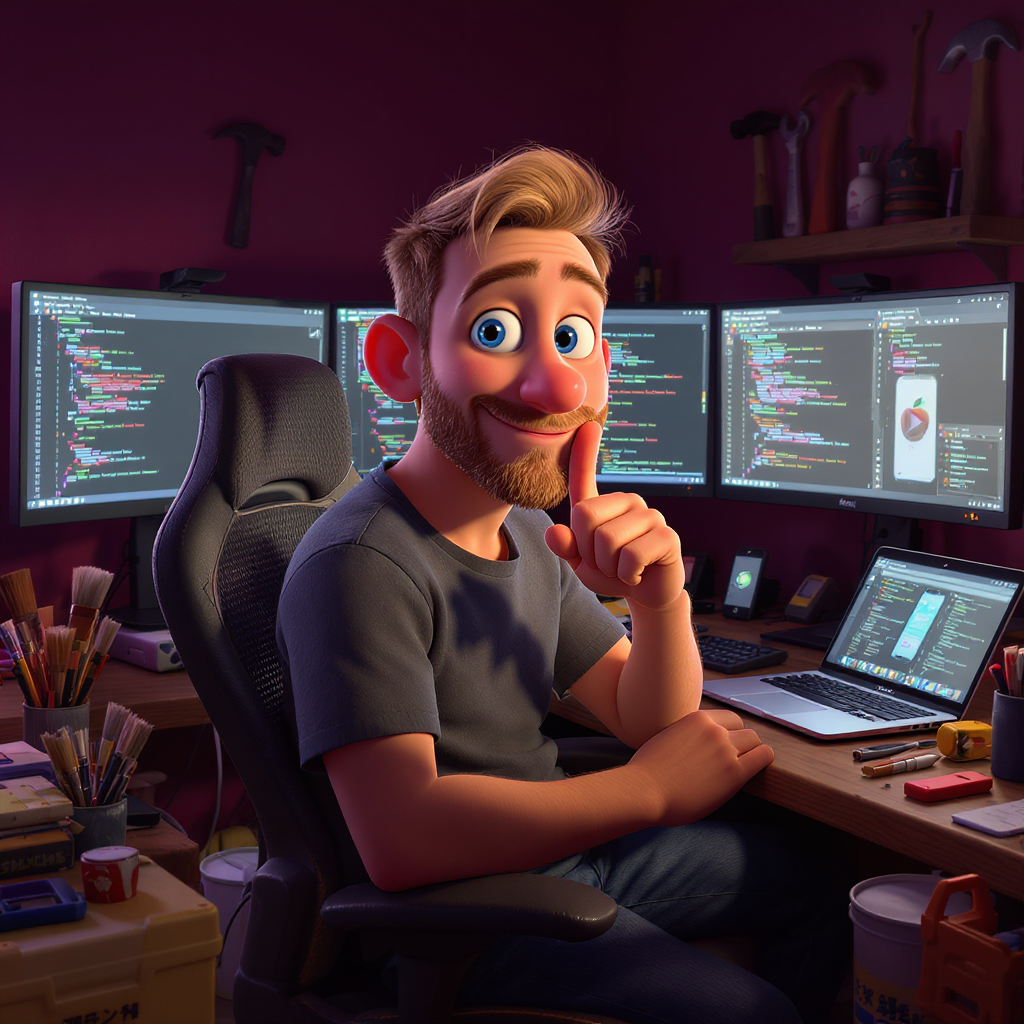
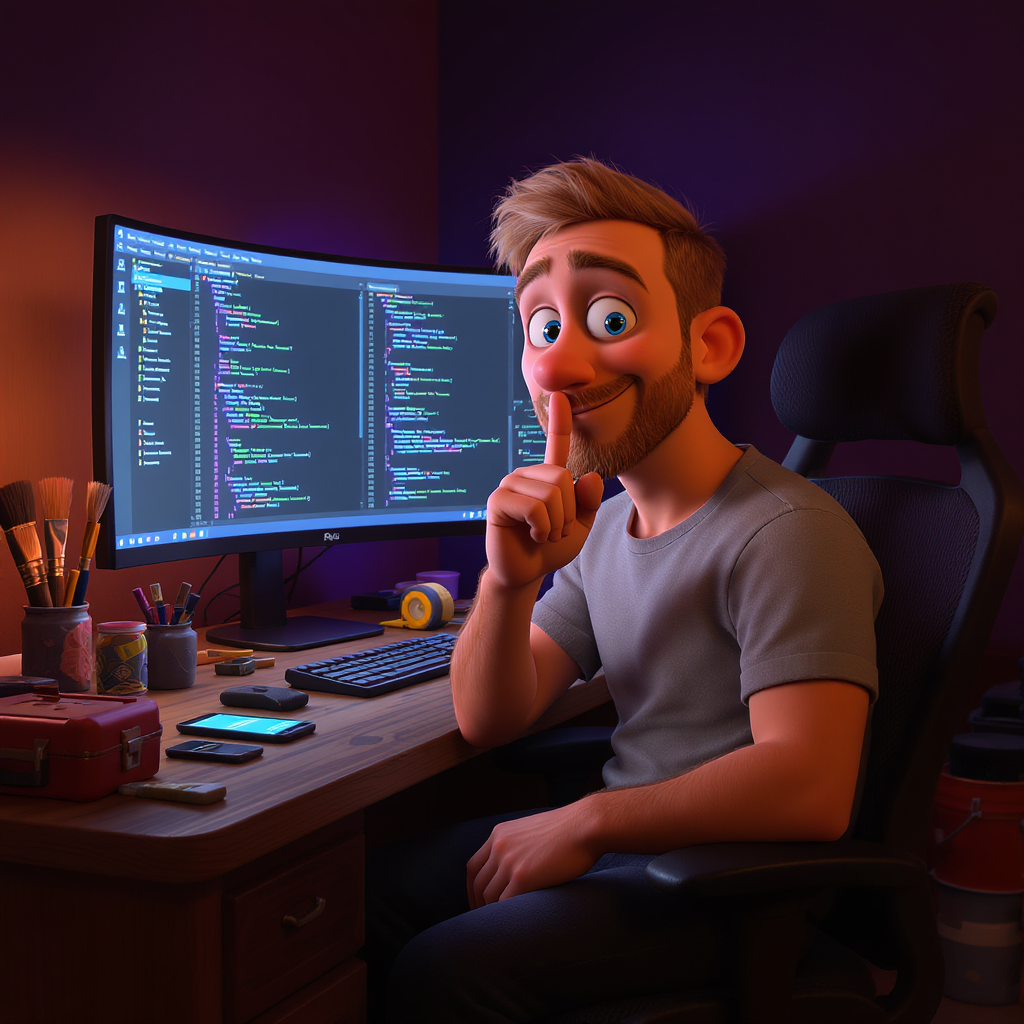
refactor: improve work mode images and UX
- Update prompts for clearer "shhh" gesture with finger on lips
- Single desk setup with huge ultrawide monitor
- Add phones and tablets on desk alongside tradesperson tools
- Add work mode taglines matching the site's style
- Fade month navigation to opacity 0 during work mode
- Show work-specific tagline when in work mode

diff --git a/scripts/generate-work-images.ts b/scripts/generate-work-images.ts
@@ -21,9 +21,9 @@ const REPLICATE_TOKEN = process.env.REPLICATE_API_TOKEN;
 const RATE_LIMIT_DELAY = 12000;
 
 // Work scene prompts - secret project for tradespeople app
-const WORK_LIGHT_PROMPT = `${LIGHT_BASE_STYLE}, ${CHARACTER_DESC} sitting at ergonomic desk chair in home office with clay pink terracotta walls and natural wood acoustic panels, wearing casual grey t-shirt, multiple monitors surrounding him showing colorful code editors with syntax highlighting, multiple phones on desk showing app mockups, MacBook Pro laptop open, IMPORTANT: doing shhhh gesture with index finger pressed against lips in playful secretive expression bright eyes looking at viewer sharing a secret, the room is filled with tradesperson tools and props scattered everywhere - paintbrushes in jars, hammers, screwdrivers, wrenches, measuring tape, level tool, nails and screws in containers, power drill, toolbox on floor, paint cans, all suggesting an app for tradespeople, warm productive lighting, working on something exciting and secret, compact centered desk setup`;
+const WORK_LIGHT_PROMPT = `${LIGHT_BASE_STYLE}, ${CHARACTER_DESC} sitting in ergonomic desk chair behind a single large wooden desk in home office with clay pink terracotta walls and natural wood acoustic panels, wearing casual grey t-shirt, IMPORTANT: one huge ultrawide curved widescreen monitor on desk showing colorful code editor with syntax highlighting, several smartphones and tablets scattered on the desk showing app mockups, CRITICAL POSE: right hand raised to face with index finger pressed vertically against closed lips in classic shhhh hush be quiet secretive gesture, mischievous playful eyes looking directly at viewer with raised eyebrows sharing a secret, tradesperson tools and props scattered on desk and around room - paintbrushes in jars, claw hammer, screwdrivers, adjustable wrench, yellow measuring tape, spirit level tool, jar of nails and screws, cordless power drill, red metal toolbox on floor, paint cans stacked nearby, all suggesting building an app for tradespeople, warm productive daylight, working on something exciting and secret, compact centered single desk setup`;
 
-const WORK_DARK_PROMPT = `${DARK_BASE_STYLE}, ${CHARACTER_DESC} sitting at ergonomic desk chair in home office with clay pink terracotta walls and natural wood acoustic panels, wearing casual grey t-shirt, multiple monitors surrounding him glowing with colorful code editors with syntax highlighting providing the main light source, multiple phones on desk showing app mockups with glowing screens, MacBook Pro laptop open glowing, IMPORTANT: doing shhhh gesture with index finger pressed against lips in playful secretive expression eyes looking at viewer sharing a secret, the room is filled with tradesperson tools and props scattered everywhere - paintbrushes in jars, hammers, screwdrivers, wrenches, measuring tape, level tool, nails and screws in containers, power drill, toolbox on floor, paint cans, dim ambient moody lighting with monitors as main light source, late night coding session on secret project, working hard in the dark, compact centered desk setup`;
+const WORK_DARK_PROMPT = `${DARK_BASE_STYLE}, ${CHARACTER_DESC} sitting in ergonomic desk chair behind a single large wooden desk in home office with clay pink terracotta walls and natural wood acoustic panels, wearing casual grey t-shirt, IMPORTANT: one huge ultrawide curved widescreen monitor on desk glowing brightly showing colorful code editor with syntax highlighting as main light source, several smartphones and tablets scattered on the desk with glowing screens showing app mockups, CRITICAL POSE: right hand raised to face with index finger pressed vertically against closed lips in classic shhhh hush be quiet secretive gesture, mischievous playful eyes looking directly at viewer sharing a secret, tradesperson tools and props scattered on desk and around room - paintbrushes in jars, claw hammer, screwdrivers, adjustable wrench, yellow measuring tape, spirit level tool, jar of nails and screws, cordless power drill, red metal toolbox on floor, paint cans stacked nearby, dim ambient moody lighting with monitor glow illuminating face, late night coding session on secret project, working hard in the dark, compact centered single desk setup`;
 
 async function sleep(ms: number): Promise<void> {
   return new Promise(resolve => setTimeout(resolve, ms));

diff --git a/src/components/Hero.tsx b/src/components/Hero.tsx
@@ -6,7 +6,7 @@ import { motion } from 'framer-motion';
 import { useCurrentMonth, useThemeMode } from '@/hooks';
 import { getThemeForMonth, getColorsForMonth, getDailyImagePath, LIGHT_BACKGROUND, DARK_BACKGROUND } from '@/config/themes';
 import { getBlurDataURL } from '@/config/blur-placeholders';
-import { WORK_IMAGE_PATHS, WORK_BLUR_DATA, WORK_DISPLAY_DURATION } from '@/config/work';
+import { WORK_IMAGE_PATHS, WORK_BLUR_DATA, WORK_DISPLAY_DURATION, WORK_TAGLINES } from '@/config/work';
 import { SocialLinks } from './SocialLinks';
 import { ThemeToggle } from './ThemeToggle';
 
@@ -243,13 +243,17 @@ export function Hero() {
 
       {/* Bottom - Tagline and socials */}
       <div className="absolute bottom-0 left-0 right-0 text-center z-20 px-4 md:px-8 pb-6 md:pb-8">
-        {/* Month navigation */}
-        <div className="flex items-center justify-center gap-3 mb-2">
+        {/* Month navigation - fades out in work mode */}
+        <div
+          className="flex items-center justify-center gap-3 mb-2 transition-opacity duration-700"
+          style={{ opacity: isWorkMode ? 0 : 1 }}
+        >
           <button
             onClick={goToPrevMonth}
             className="p-1 rounded-full transition-all duration-200 hover:scale-110 active:scale-95"
             style={{ color: textMuted }}
             aria-label="Previous month"
+            disabled={isWorkMode}
           >
             <ChevronLeft className="w-4 h-4 md:w-5 md:h-5" />
           </button>
@@ -265,16 +269,19 @@ export function Hero() {
             className="p-1 rounded-full transition-all duration-200 hover:scale-110 active:scale-95"
             style={{ color: textMuted }}
             aria-label="Next month"
+            disabled={isWorkMode}
           >
             <ChevronRight className="w-4 h-4 md:w-5 md:h-5" />
           </button>
         </div>
         <p
-          key={`tagline-${displayedMonth}`}
-          className={`font-display text-4xl md:text-4xl lg:text-5xl text-center max-w-[280px] md:max-w-3xl mx-auto ${slideClass}`}
+          key={isWorkMode ? 'work-tagline' : `tagline-${displayedMonth}`}
+          className={`font-display text-4xl md:text-4xl lg:text-5xl text-center max-w-[280px] md:max-w-3xl mx-auto transition-opacity duration-700 ${isWorkMode ? '' : slideClass}`}
           style={{ color: themeColor, fontWeight: 900 }}
         >
-          {modeTheme.tagline.charAt(0).toUpperCase() + modeTheme.tagline.slice(1)}.
+          {isWorkMode
+            ? WORK_TAGLINES[mode].charAt(0).toUpperCase() + WORK_TAGLINES[mode].slice(1) + '.'
+            : modeTheme.tagline.charAt(0).toUpperCase() + modeTheme.tagline.slice(1) + '.'}
         </p>
         <div className="mt-4 md:mt-6 flex justify-center">
           <SocialLinks isDark={isDark} color={themeColor} onWorkClick={handleWorkClick} isWorkActive={isWorkMode} />

diff --git a/src/config/work.ts b/src/config/work.ts
@@ -7,8 +7,14 @@ export const WORK_IMAGE_PATHS: Record<Mode, string> = {
 };
 
 export const WORK_BLUR_DATA: Record<Mode, string> = {
[4 lines of base64/hex data omitted]
+};
+
+// Work mode taglines - matches the style of monthly taglines
+export const WORK_TAGLINES: Record<Mode, string> = {
+  light: 'lips sealed, app revealed',
+  dark: 'midnight grind, trades in mind',
 };
 
 // How long to show the work image before transitioning back (in milliseconds)
